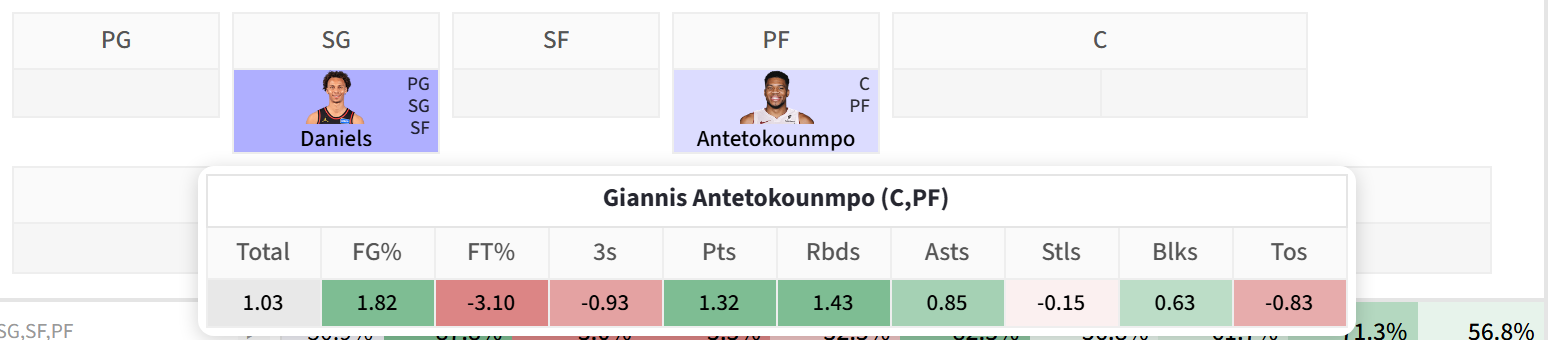
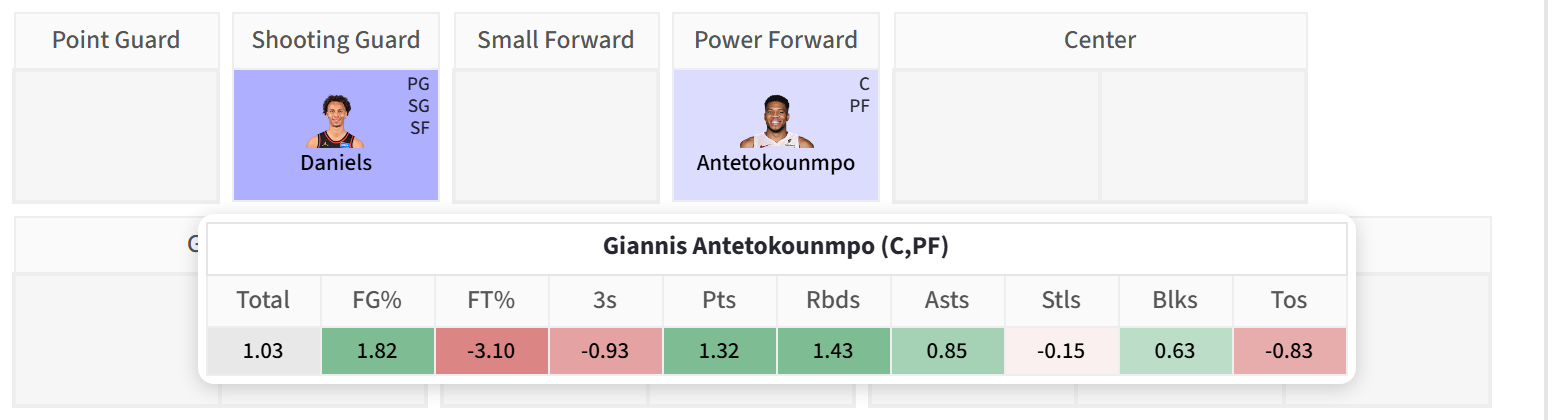
Roster grid: full position names, a steady height, and equal flex-table columns
- The roster boxes are headed by full position names, as the position allocation table is
- Every roster row is an example-team card's height, and the note's space is kept with the toggle off,
  so flipping "Show example team" changes neither the panel's height nor the headers' widths
  (empty slots take a 2px border, matching the dotted one's share of the table's edge)
- The position allocation table's columns are equal width again, as they were while it shared a
  layout with the old roster grid
- e2e: flipping the toggle keeps the roster panel's height and header widths; refreshed screenshots

diff --git a/frontend/table/expand_view.ts b/frontend/table/expand_view.ts
@@ -83,10 +83,14 @@ export function buildExpandPanel(
         // strategy the last draft/auction evaluate cached. A candidate with no category weights (the last open slot)
         // has no future picks to fill.
         const mode = getMode()
-        if (isExampleTeamShown() && (mode === 'Draft Mode' || mode === 'Auction Mode') && playerData.category_weights) {
+        const canShowExampleTeam = (mode === 'Draft Mode' || mode === 'Auction Mode') && Boolean(playerData.category_weights)
+        if (canShowExampleTeam && isExampleTeamShown()) {
             fillRosterWithHypotheticalTeam(playerData, rosterHolder)
         } else {
             rosterHolder.appendChild(makeRosterGrid(playerData.roster, null, false))
+            // The note's space is kept with the example team off too, so flipping the toggle never changes the
+            // panel's height.
+            if (canShowExampleTeam) rosterHolder.appendChild(makeHypotheticalTeamNote(false))
         }
     }
 }
@@ -158,7 +162,7 @@ function fillRosterWithHypotheticalTeam(
         return
     }
     // The spinner grid and the (hidden) note take the filled panel's full height from the start
-    // (.roster-grid-hypothetical rows are sized for a hypothetical card), so the panel does not grow when the team arrives.
+    // (every roster row is sized for a hypothetical card), so the panel does not grow when the team arrives.
     rosterHolder.append(makeRosterGrid(playerData.roster!, null, true),
                         makeHypotheticalTeamNote(false))
 
@@ -404,8 +408,9 @@ function makeFlexAllocationsTable(flexData: FlexAllocations): HTMLDivElement {
     const positionNames = getPositionNames()
 
     const table = document.createElement('table')
-    table.className = 'panel-table'
+    table.className = 'panel-table flex-allocations-table'
     table.dataset.testid = 'flex-allocations-table'
+    table.style.setProperty('--flex-position-count', String(flexData.base_positions.length))
 
     const headerRow = table.createTHead().insertRow(-1)
     headerRow.appendChild(makeSpacerTh('panel-colheader-blank panel-colspacer-position-label'))
@@ -539,7 +544,6 @@ function makeRosterGrid(
     const groups = document.createElement('div')
     groups.className = 'roster-groups'
     groups.dataset.testid = 'roster-assignments-table'
-    if (showPendingSpinners || hypotheticalPickLabels !== null) groups.classList.add('roster-grid-hypothetical')
     const flexPositions = new Set(getPositionStructure().flex_list)
     const baseTypes = positionTypes.filter(positionType => !flexPositions.has(positionType))
     const flexTypes = positionTypes.filter(positionType => flexPositions.has(positionType))
@@ -560,8 +564,7 @@ function makeRosterGrid(
         const header = document.createElement('th')
         header.className = 'panel-colheader'
         header.colSpan = slots.length
-        header.textContent = positionType
-        header.title = positionNames[positionType] ?? positionType
+        header.textContent = positionNames[positionType] ?? positionType   // full names, as in the position allocation table
         table.createTHead().insertRow(-1).appendChild(header)
 
         const row = table.createTBody().insertRow(-1)

diff --git a/frontend/styles/styles.css b/frontend/styles/styles.css
@@ -1473,6 +1473,14 @@ tr {
     table-layout: fixed;
 }
 
+/* The position allocation table: every position column the same width (the row-label column keeps its own), wide
+   enough for the longest full name. On a phone the table fills the panel instead and the columns share what is left. */
+.panel-table.flex-allocations-table {
+    --flex-position-column-width: 104px;
+    table-layout: fixed;
+    width: calc(110px + var(--flex-position-count) * var(--flex-position-column-width));
+}
+
 /* A player's G-scores, floating beside the roster cell under the pointer (expand_view's hover card). It never takes
    the pointer itself, so moving onto it does not count as leaving the cell. */
 .gscore-hover-card {
@@ -1504,16 +1512,18 @@ tr {
     text-align: center;
 }
 
-/* Every slot row is a player cell's height (a headshot over a name line), filled or not, so empty slots are the same
-   size as the players beside them. */
+/* Every slot row is a hypothetical card's height (a headshot over a two-line full name), filled or not and whether or
+   not the example team is shown: empty slots match the players beside them, and neither the spinners, the arriving
+   team nor flipping the example-team toggle changes the panel's height. */
 .roster-groups tbody tr {
-    height: 43px;
+    height: 66px;
 }
 
-/* Rows of a grid that shows (or is about to show) a hypothetical team are sized for a hypothetical card from the
-   start: the spinners and the arriving team occupy the same height, so the panel never grows. */
-.roster-grid-hypothetical tbody tr {
-    height: 66px;
+/* An empty slot's border is as wide as the dotted one its hypothetical pick (or spinner) takes, in the grid's own color:
+   a collapsed border adds half its width to the table's edge, so with thinner lines the grid would be shorter with the
+   example team off. */
+.roster-groups .panel-datacell.rosterabsent {
+    border-width: 2px;
 }
 
 .roster-slot-spinner {
@@ -1539,13 +1549,13 @@ tr {
     .roster-groups {
         --roster-cell-width: 60px;
     }
+    .panel-table.flex-allocations-table {
+        width: 100%;
+    }
     .roster-block {
         flex-wrap: wrap;
     }
     .roster-groups tbody tr {
-        height: 31px;
-    }
-    .roster-grid-hypothetical tbody tr {
         height: 48px;
     }
     .panel-datacell.roster-player-cell {
